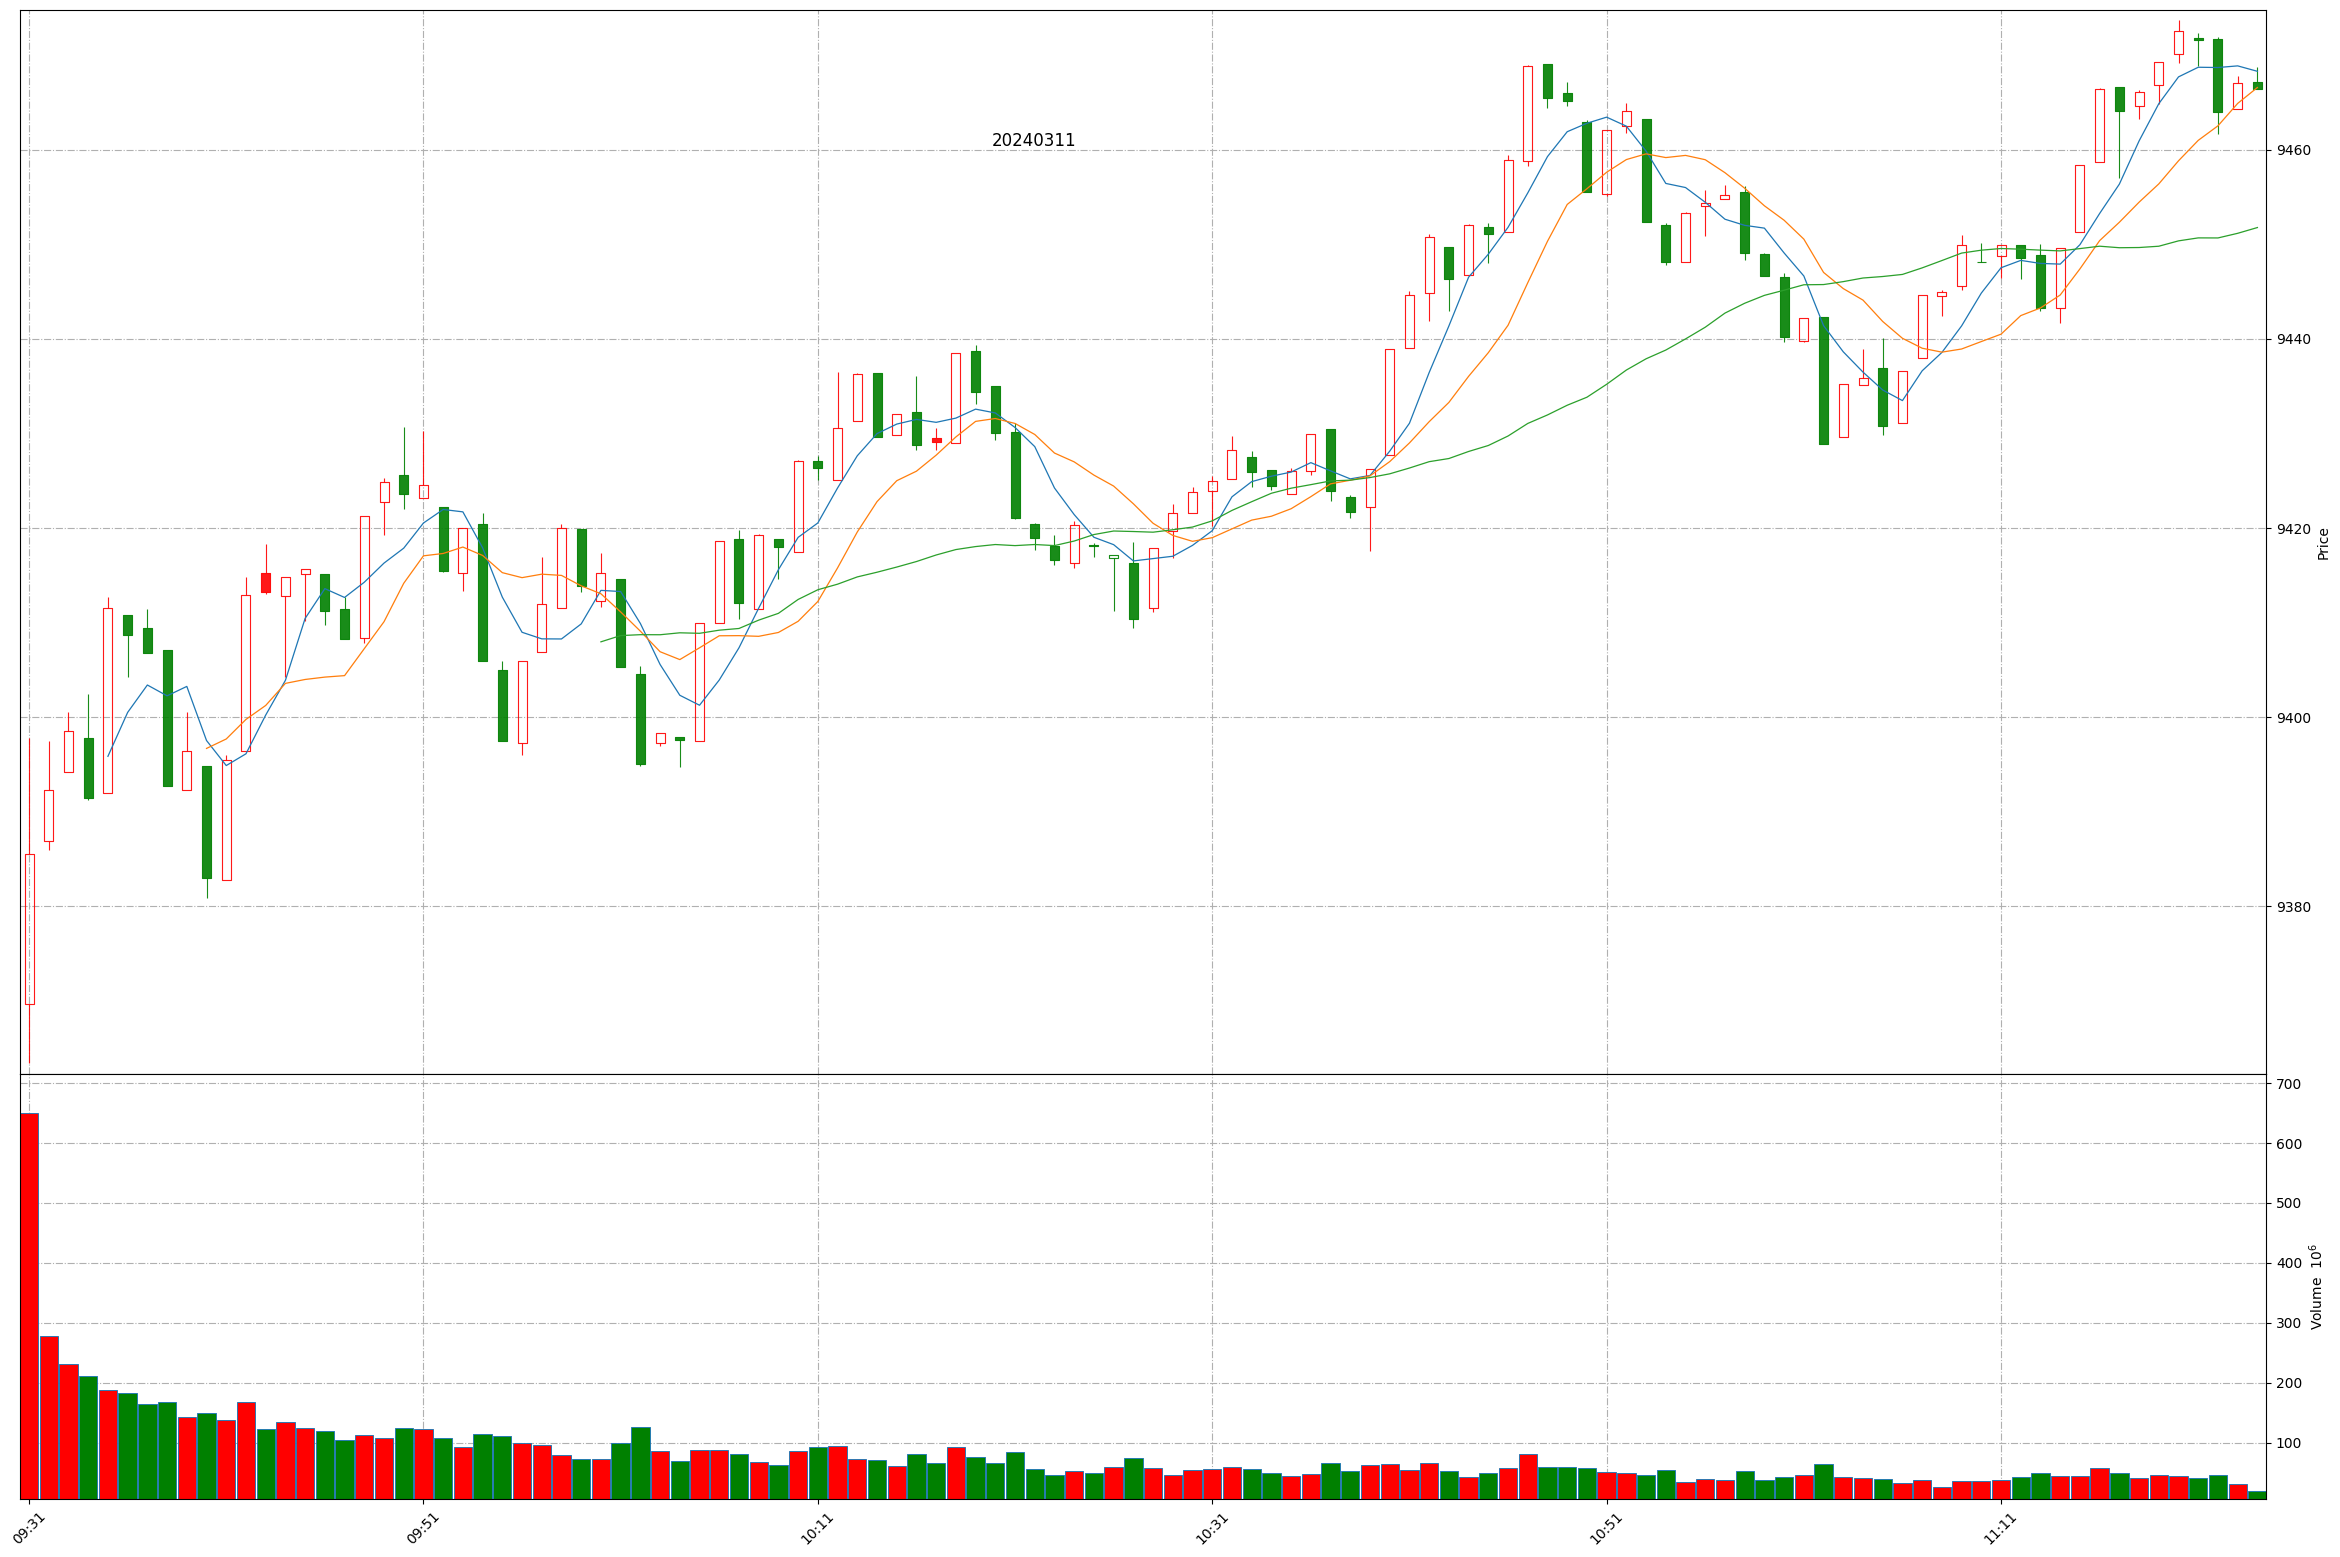
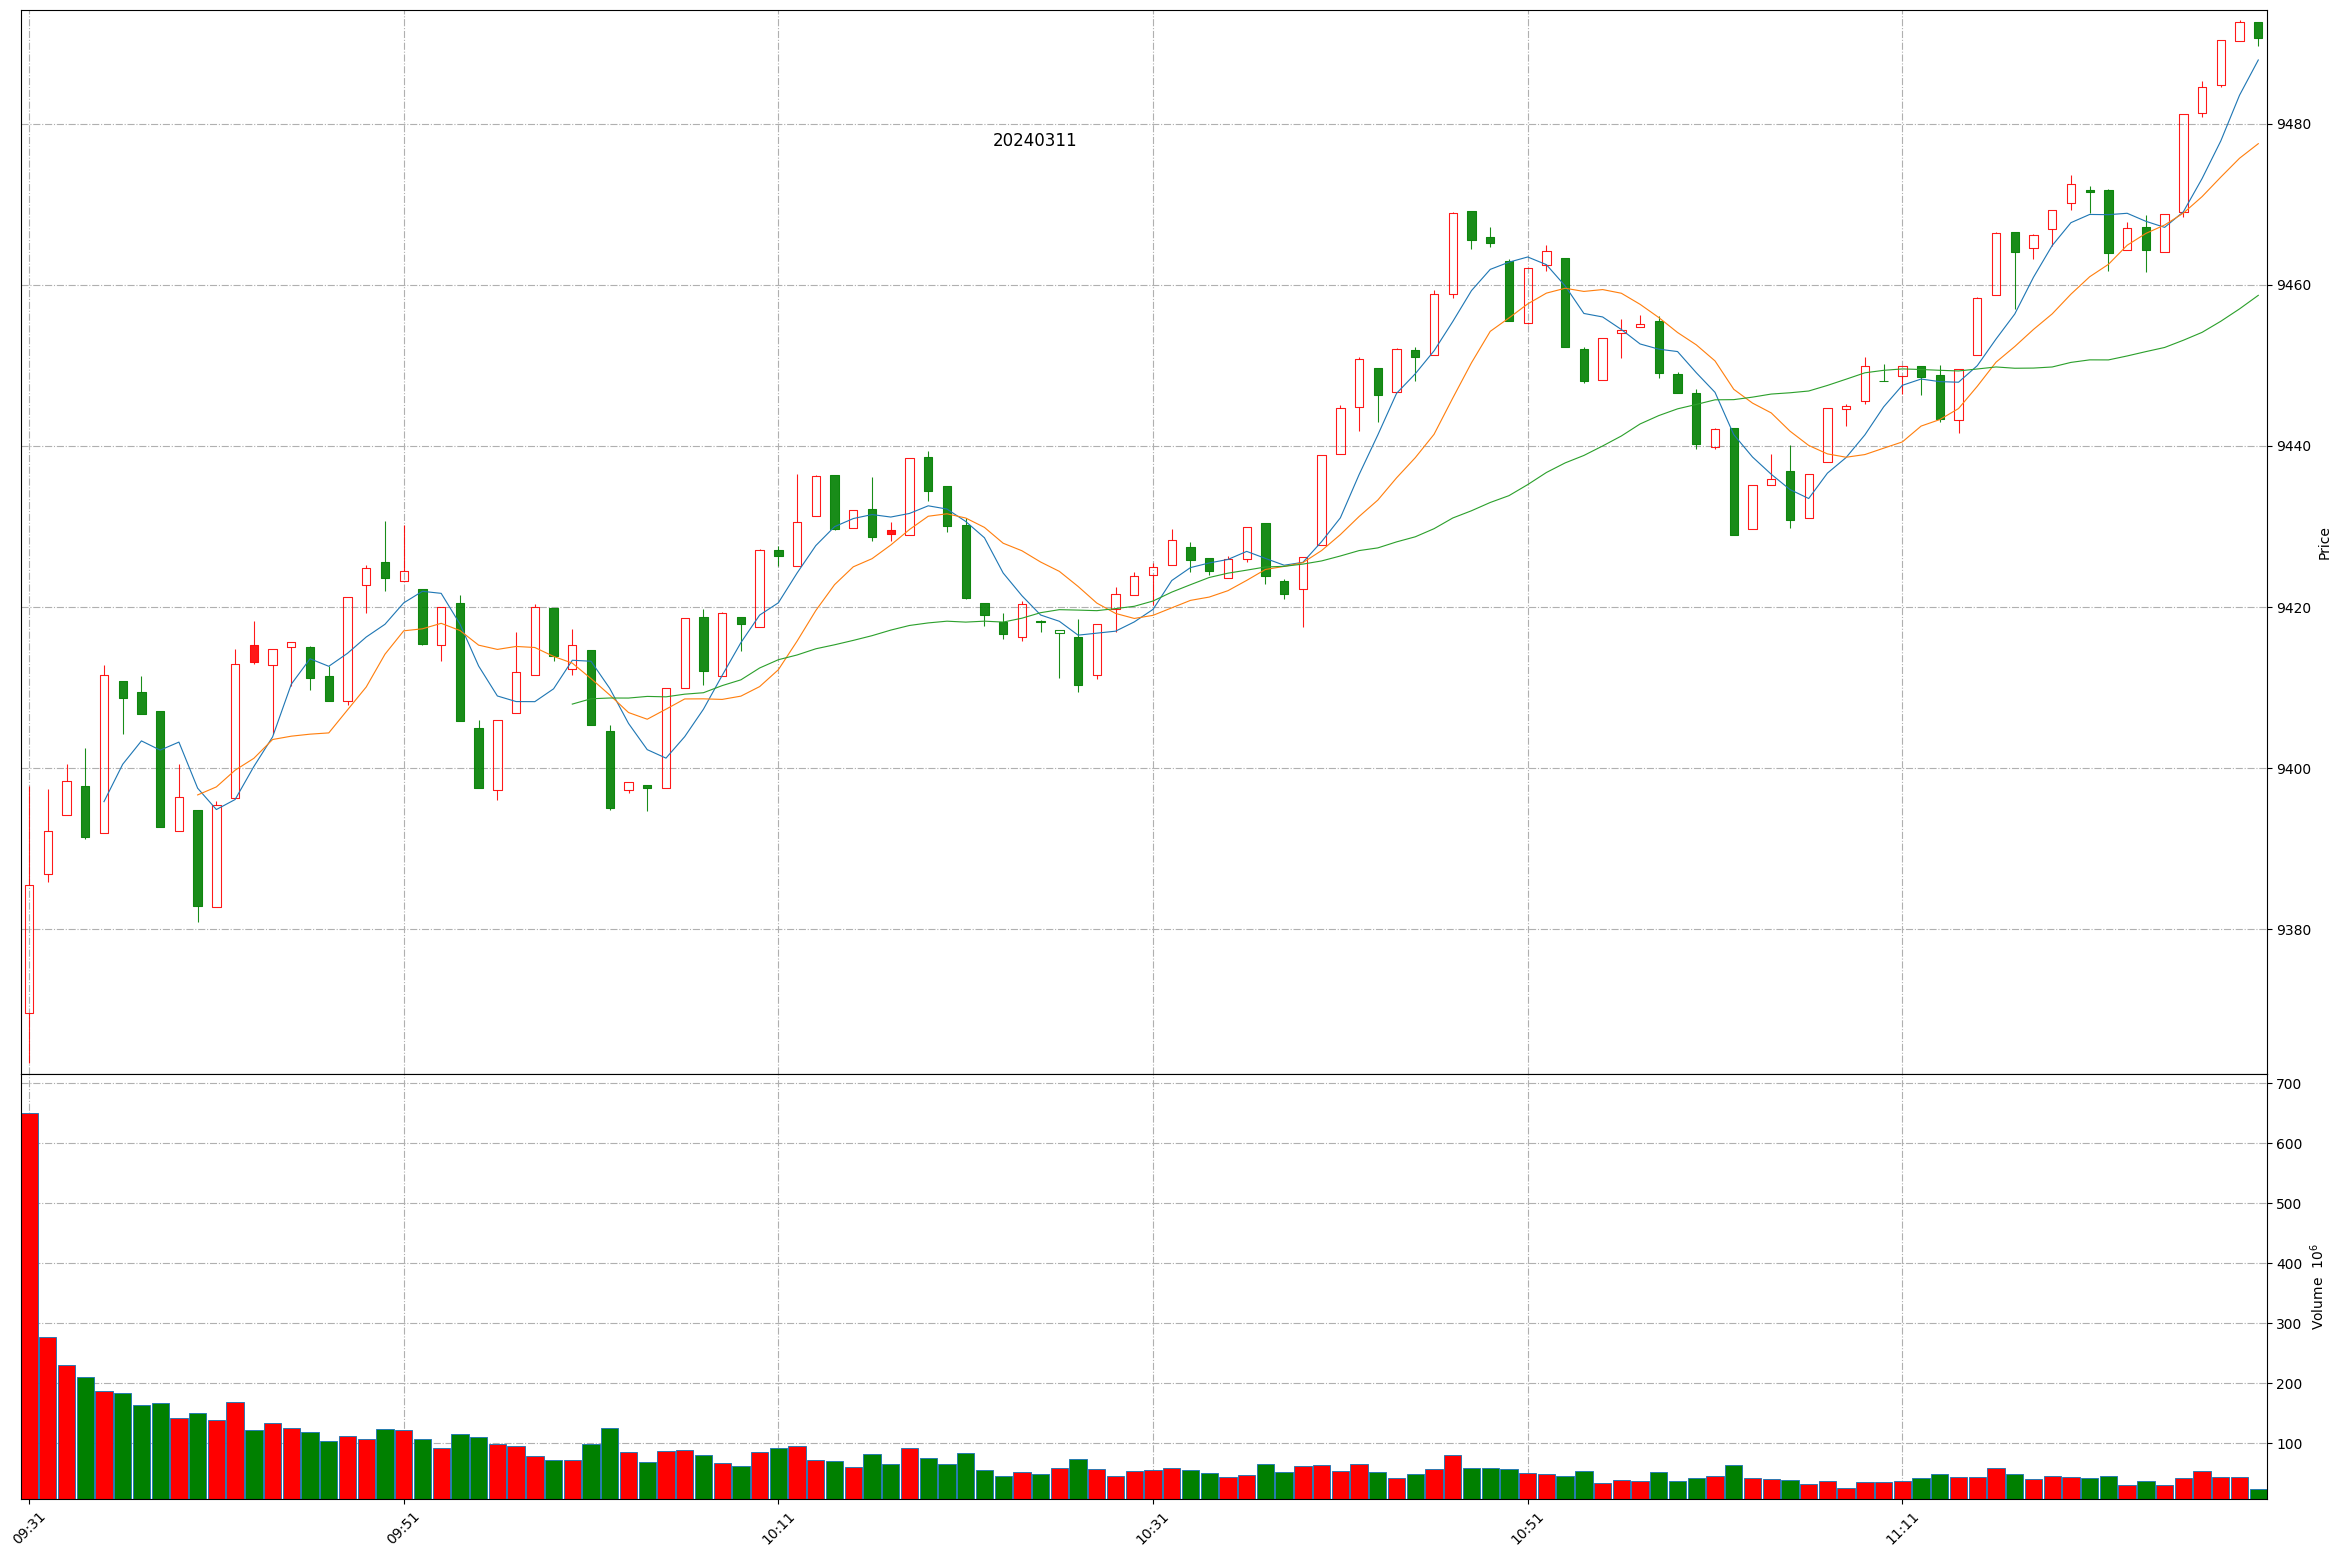
Github action update at 2024-03-11 11:29:41.

diff --git a/README.md b/README.md
@@ -1,11 +1,11 @@
 
 # Daily-A-share-market-quotes 每日 A 股指数（5min 更新）- 20240311
 
-### 上证指数 20240311 11:23
+### 上证指数 20240311 11:29
 ![](./fig/2024/3/20240311-sh000001.png)
 
-### 深证成指 20240311 11:23
+### 深证成指 20240311 11:29
 ![](./fig/2024/3/20240311-sz399001.png)
 
-### 北证50 20240311 11:23
+### 北证50 20240311 11:29
 ![](./fig/2024/3/20240311-bj899050.png)
